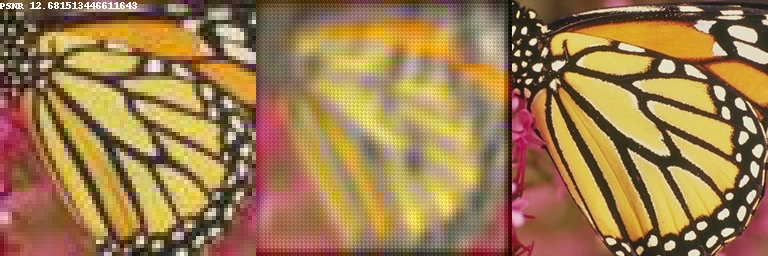
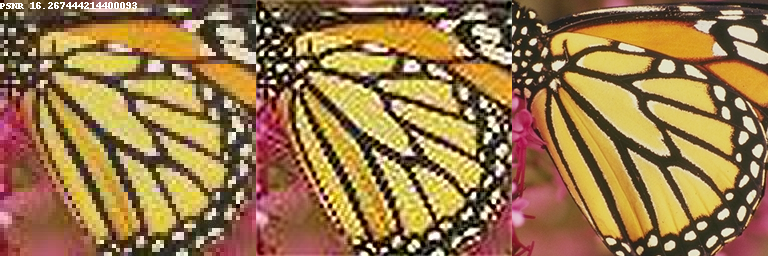
changed baseFilter size to 128

diff --git a/super-resolution/SRCNN/solver.py b/super-resolution/SRCNN/solver.py
@@ -12,7 +12,7 @@ from matplotlib import pyplot as plt
 
 print1 = False
 inputChannels = 1 # number of channels to input into CNN
-baseFilter = 64 # number of channels to output in the first Conv layer in CNN
+baseFilter = 128 # number of channels to output in the first Conv layer in CNN
 
 class SRCNNTrainer(object):
     def __init__(self, config, training_loader, testing_loader):

diff --git a/super-resolution/super_resolve_folder.py b/super-resolution/super_resolve_folder.py
@@ -115,7 +115,7 @@ for inputFileName in input_image_filenames :
     im.save(myBlurryFile)
 
     # Blur the image and save
-    blurrify(myBlurryFile, width // 50, height // 50)
+    blurrify(myBlurryFile, width // 100, height // 100)
 
     # Downscale the image by the upscale factor
     downscale(myBlurryFile, upscaleFactor)
